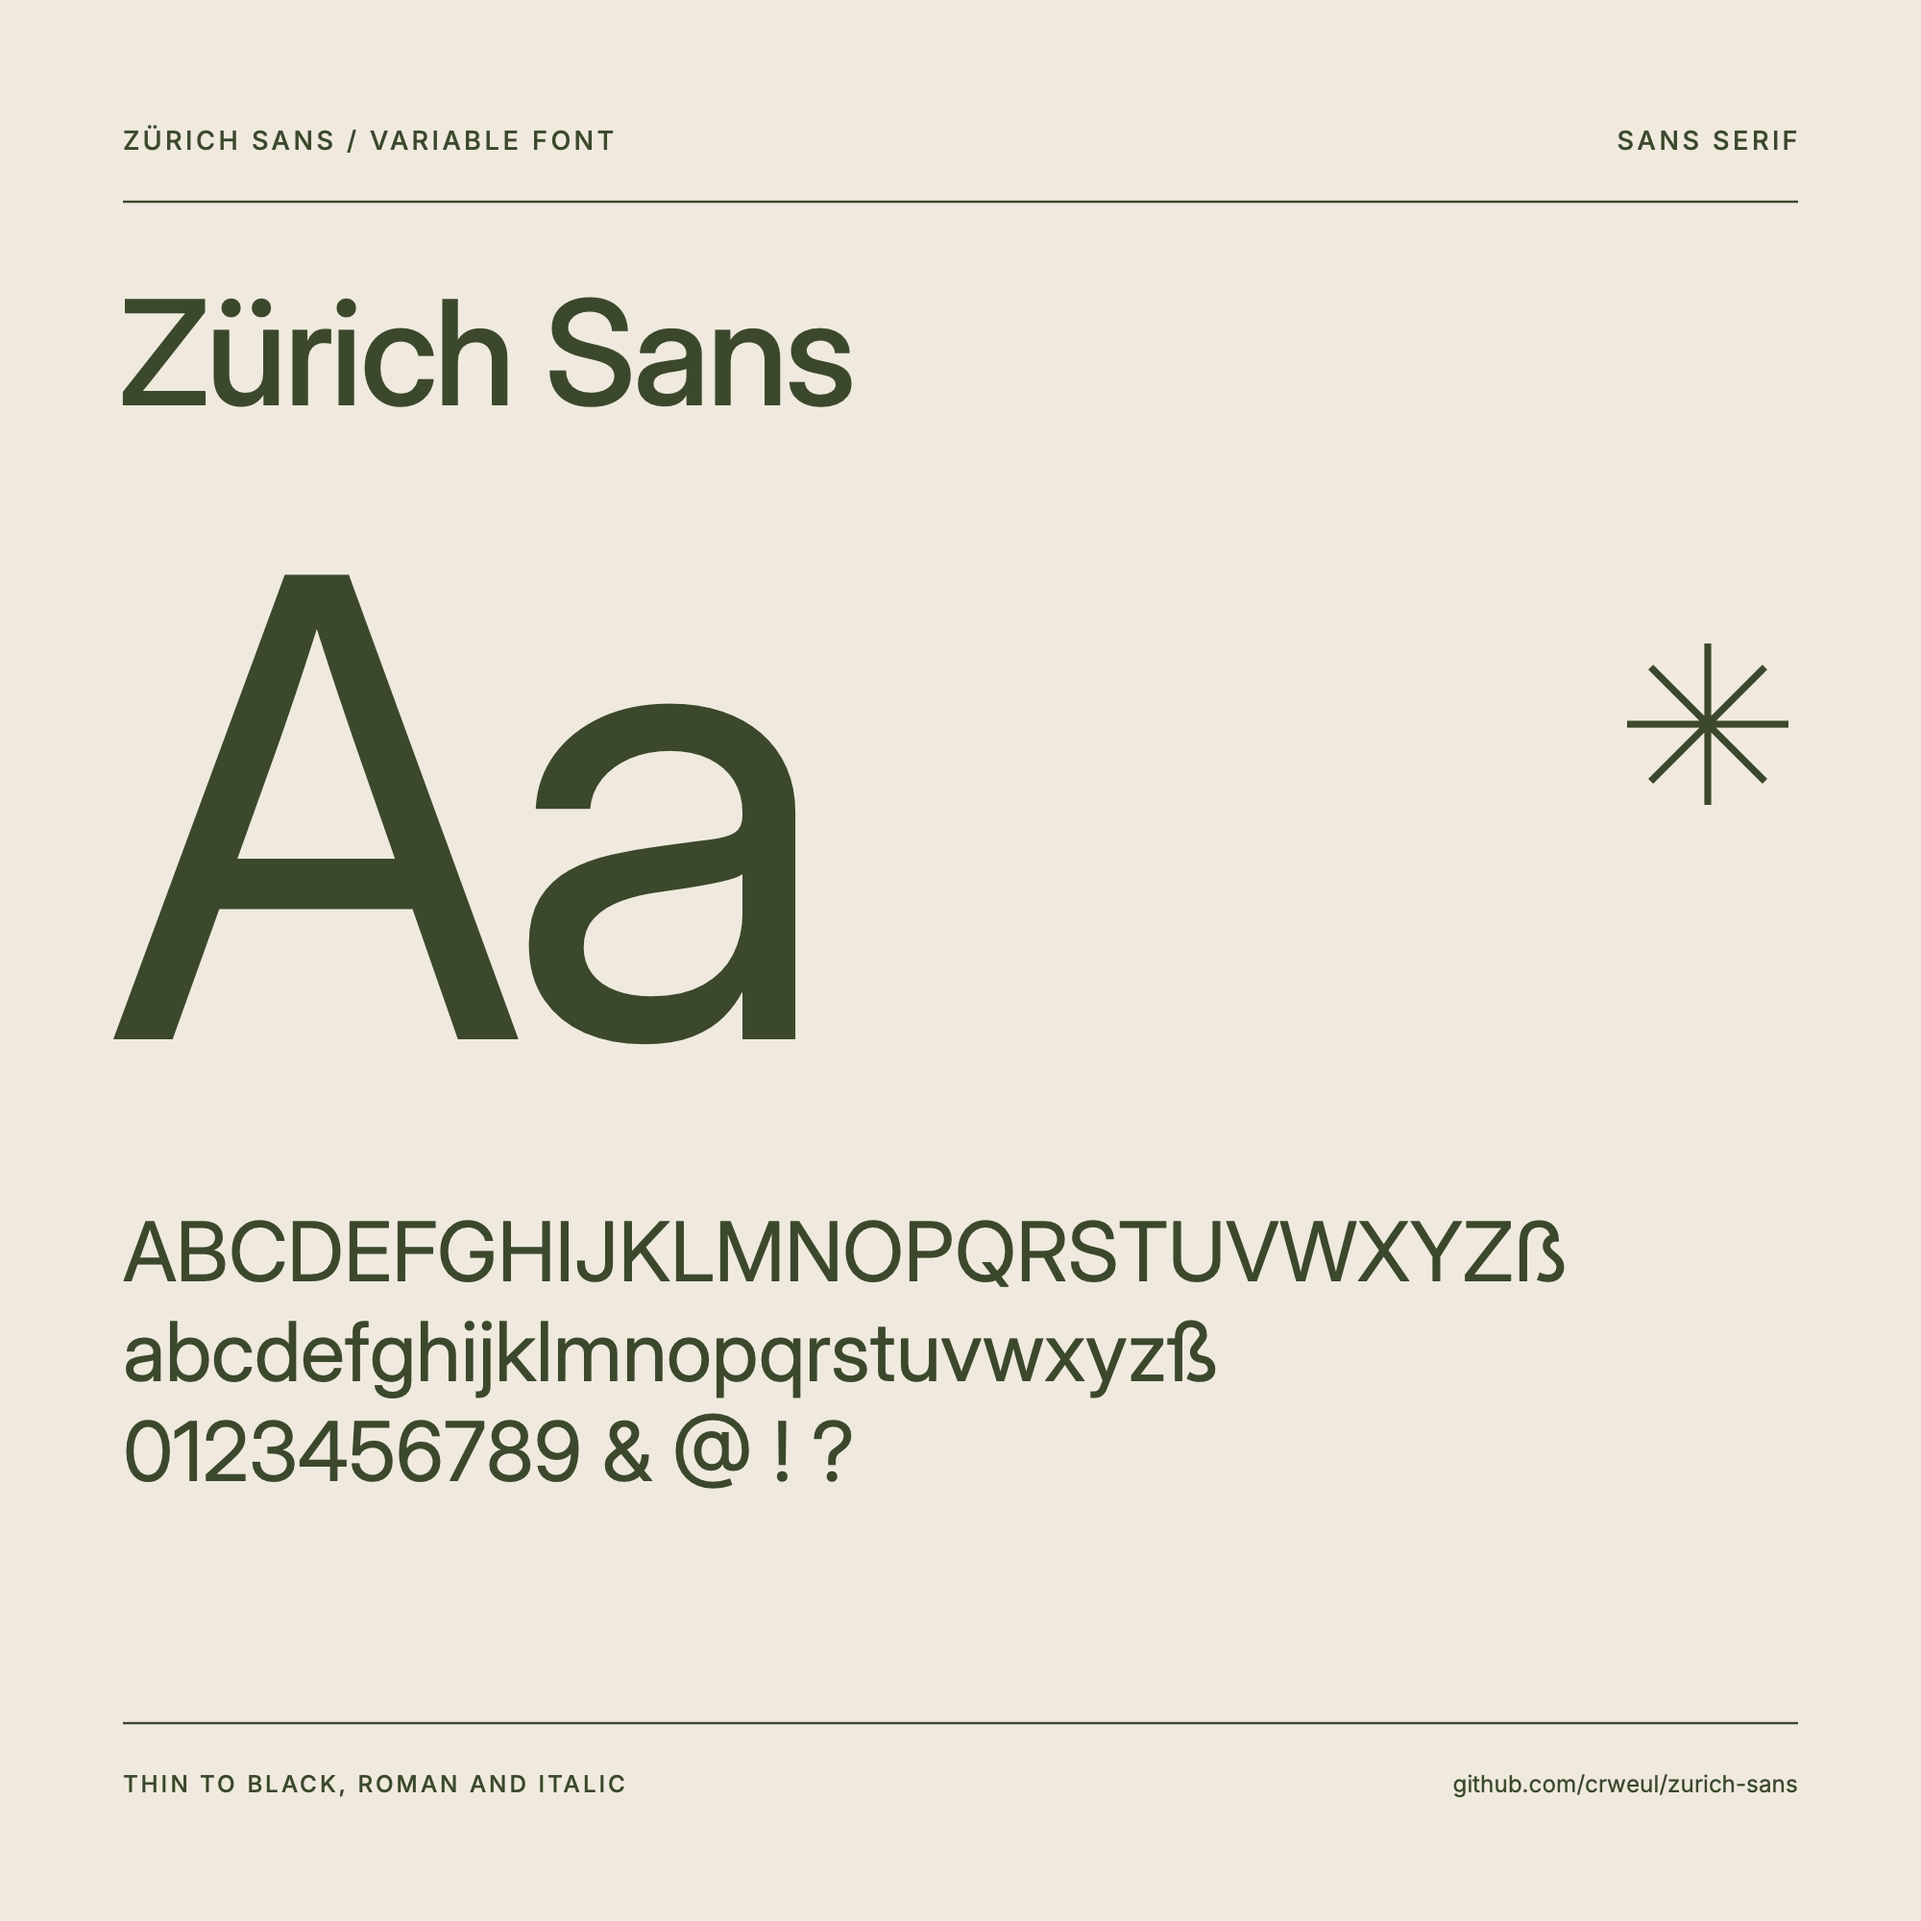
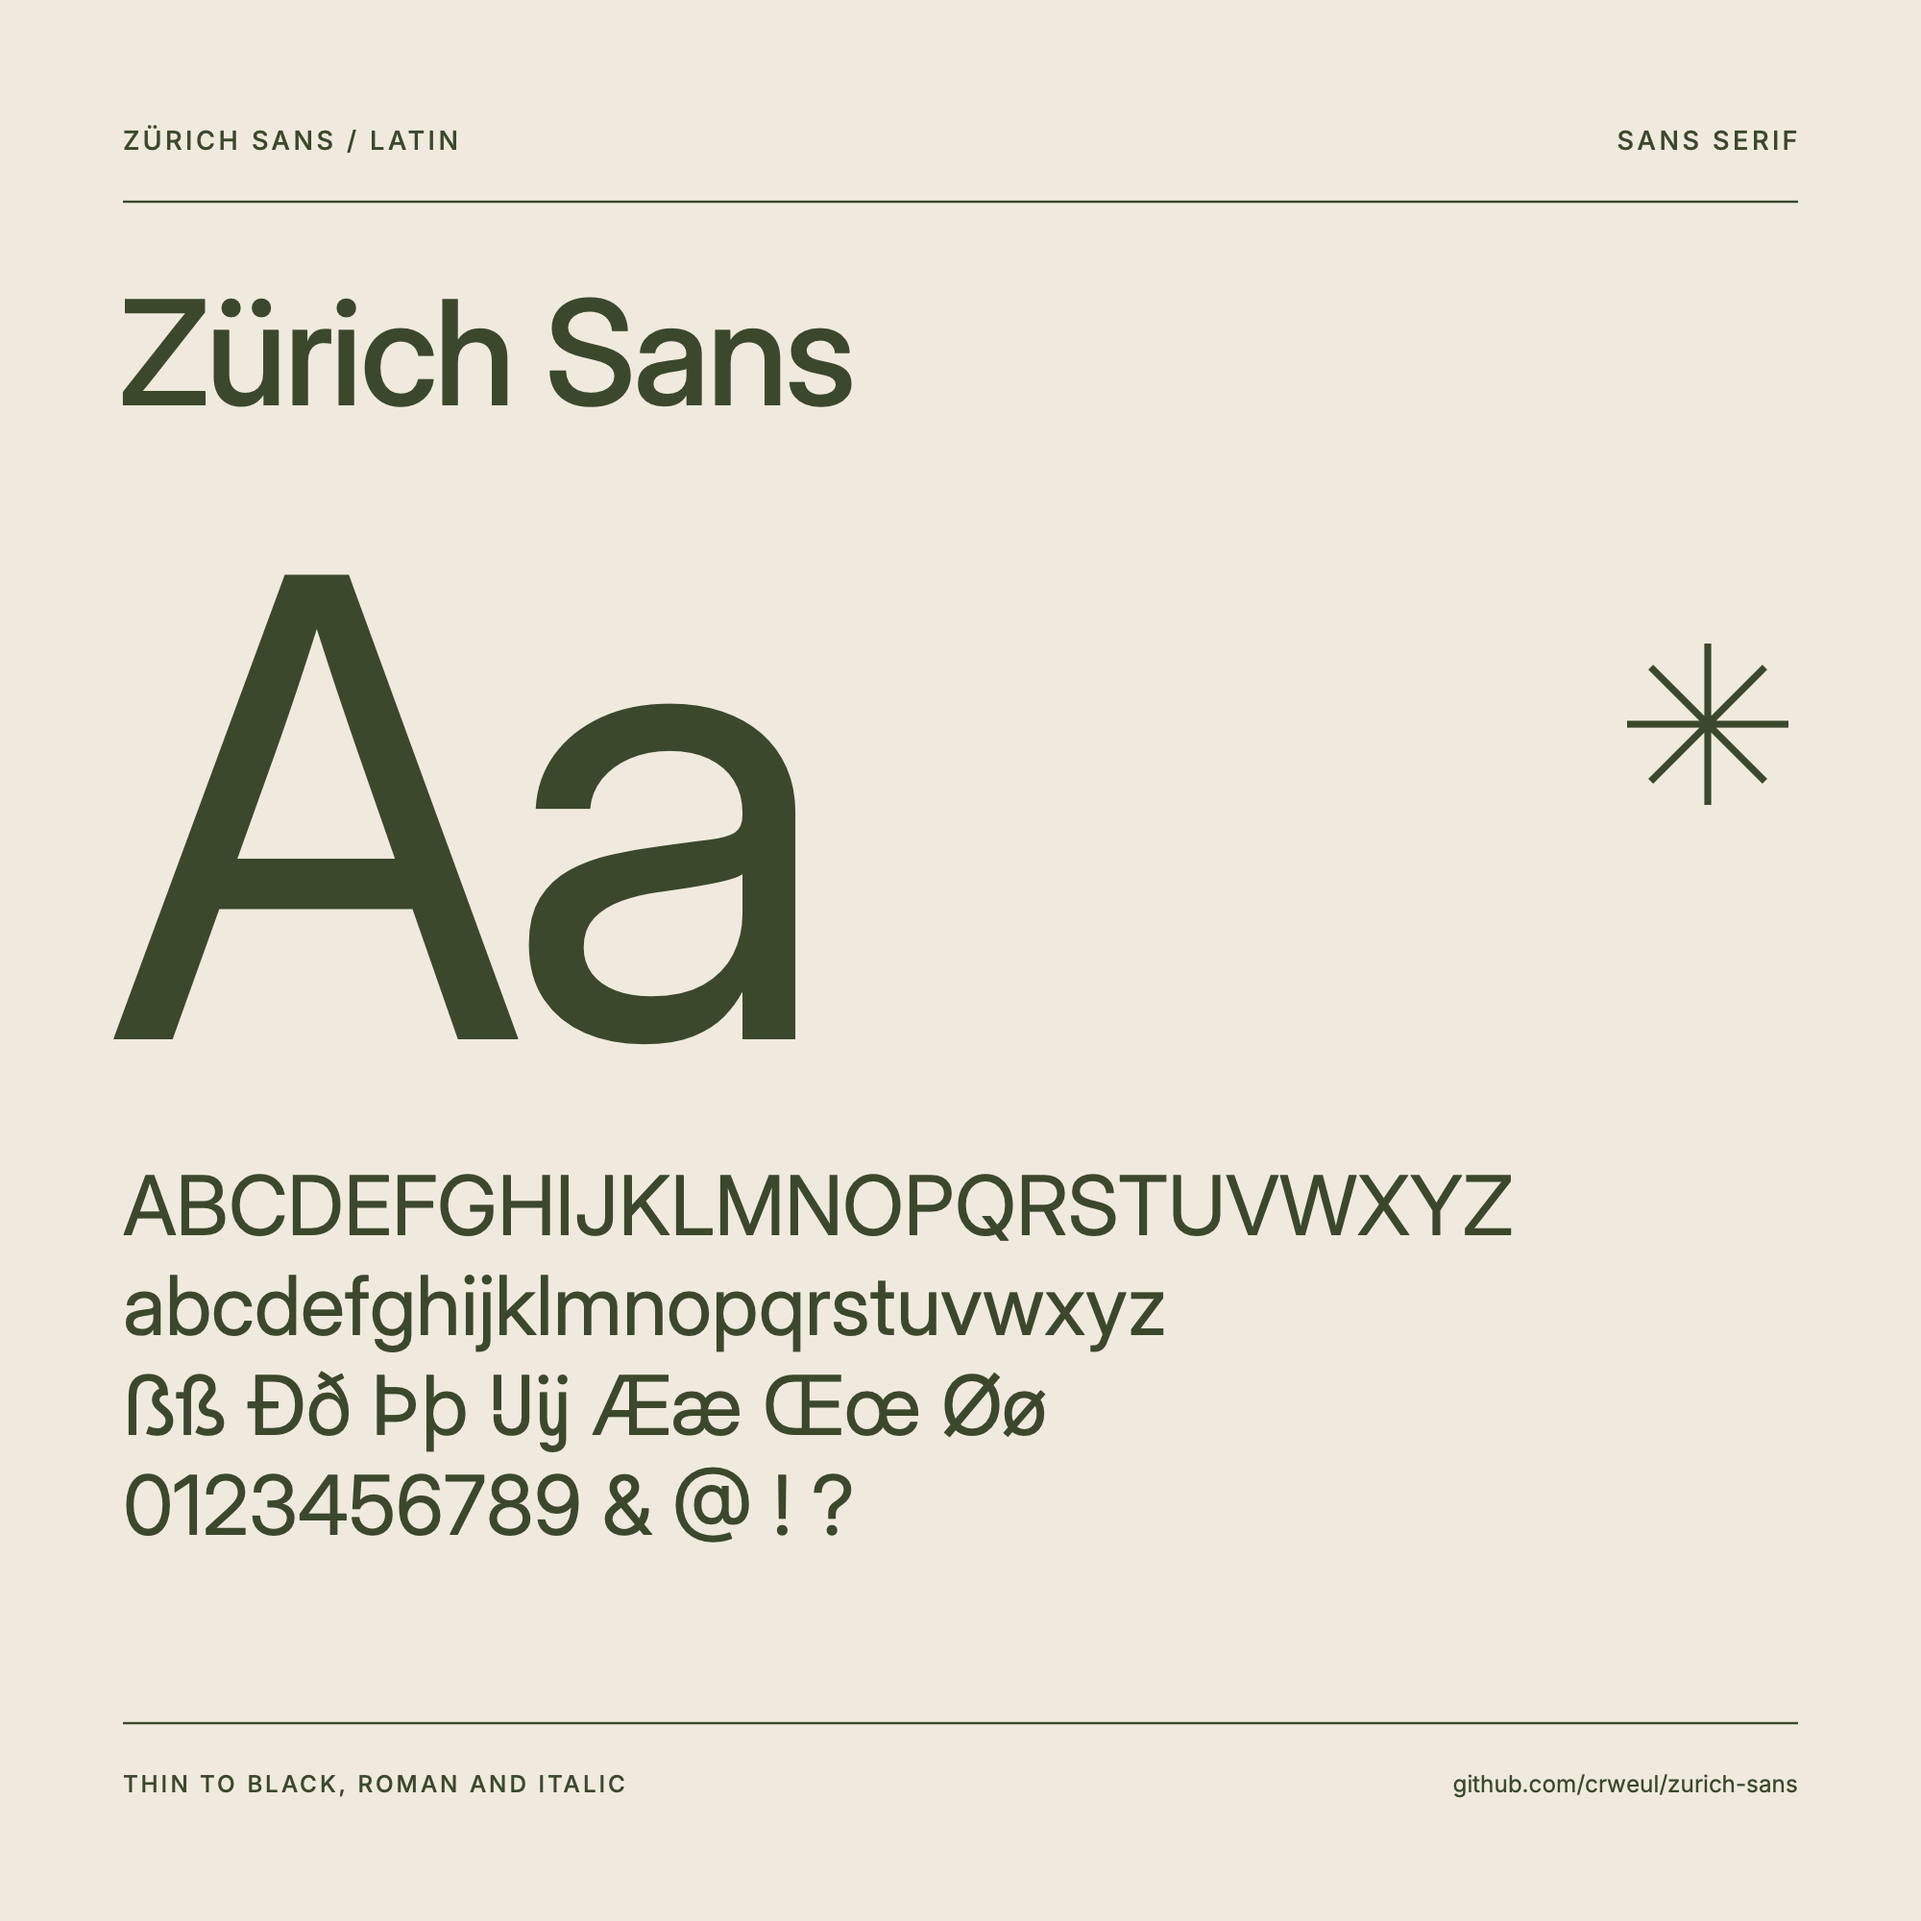
Add Cyrillic, Cyrillic alt and Greek posters beside the Latin one, which now shows ẞß Ðð Þþ Ĳĳ Ææ Œœ Øø.

Changed region(s): [[0.062, 0.589, 0.806, 0.806], [0.186, 0.062, 0.248, 0.093], [0.279, 0.062, 0.31, 0.093]]

diff --git a/README.md b/README.md
@@ -1,4 +1,4 @@
-![Zürich Sans: the name, Aa, and the alphabet with ẞ and ß](images/poster.png)
+![Zürich Sans: the name, Aa, the alphabet, ẞß Ðð Þþ Ĳĳ Ææ Œœ Øø and the figures](images/poster.png)
 
 # Zürich Sans
 
@@ -14,8 +14,14 @@ drawings at the system font's size, line height and line length, with:
   readers expect, in roman and italic, automatically in Bulgarian text
 - comma accents of one even length (Ș ț ķ ļ ņ ŗ ģ, ď ť ľ)
 
-Every other glyph is Inter's. One variable font in roman and italic, weights
-100 to 900 and optical sizes 14 to 32.
+Every other glyph is Inter's, Latin, Cyrillic and Greek alike. One variable font in roman and
+italic, weights 100 to 900 and optical sizes 14 to 32.
+
+<p>
+  <img src="images/poster-cyrillic.png" width="32%" alt="Zürich Sans in Cyrillic: Жж and the Cyrillic alphabet">
+  <img src="images/poster-cyrillic-alt.png" width="32%" alt="Zürich Sans in Cyrillic alt: Дд and the Bulgarian alphabet in its Bulgarian forms">
+  <img src="images/poster-greek.png" width="32%" alt="Zürich Sans in Greek: Ωω and the Greek alphabet">
+</p>
 
 ## Use
 
